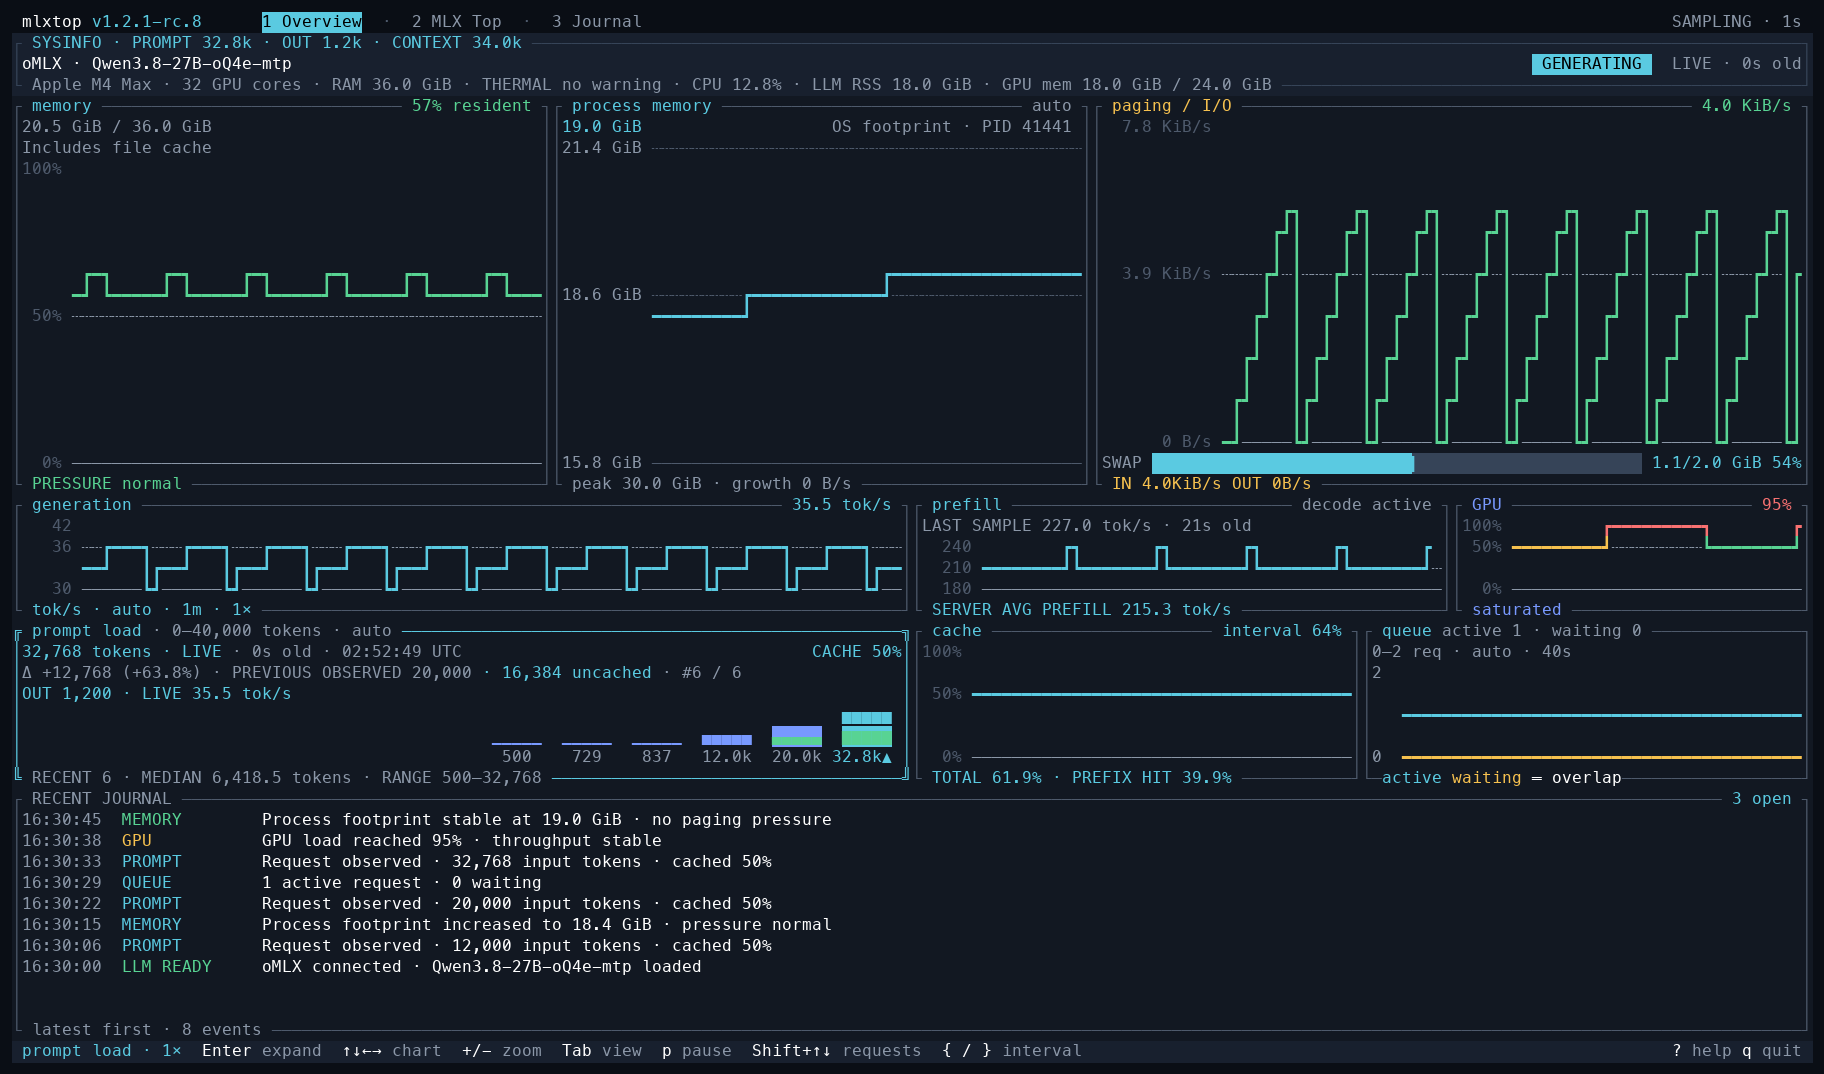
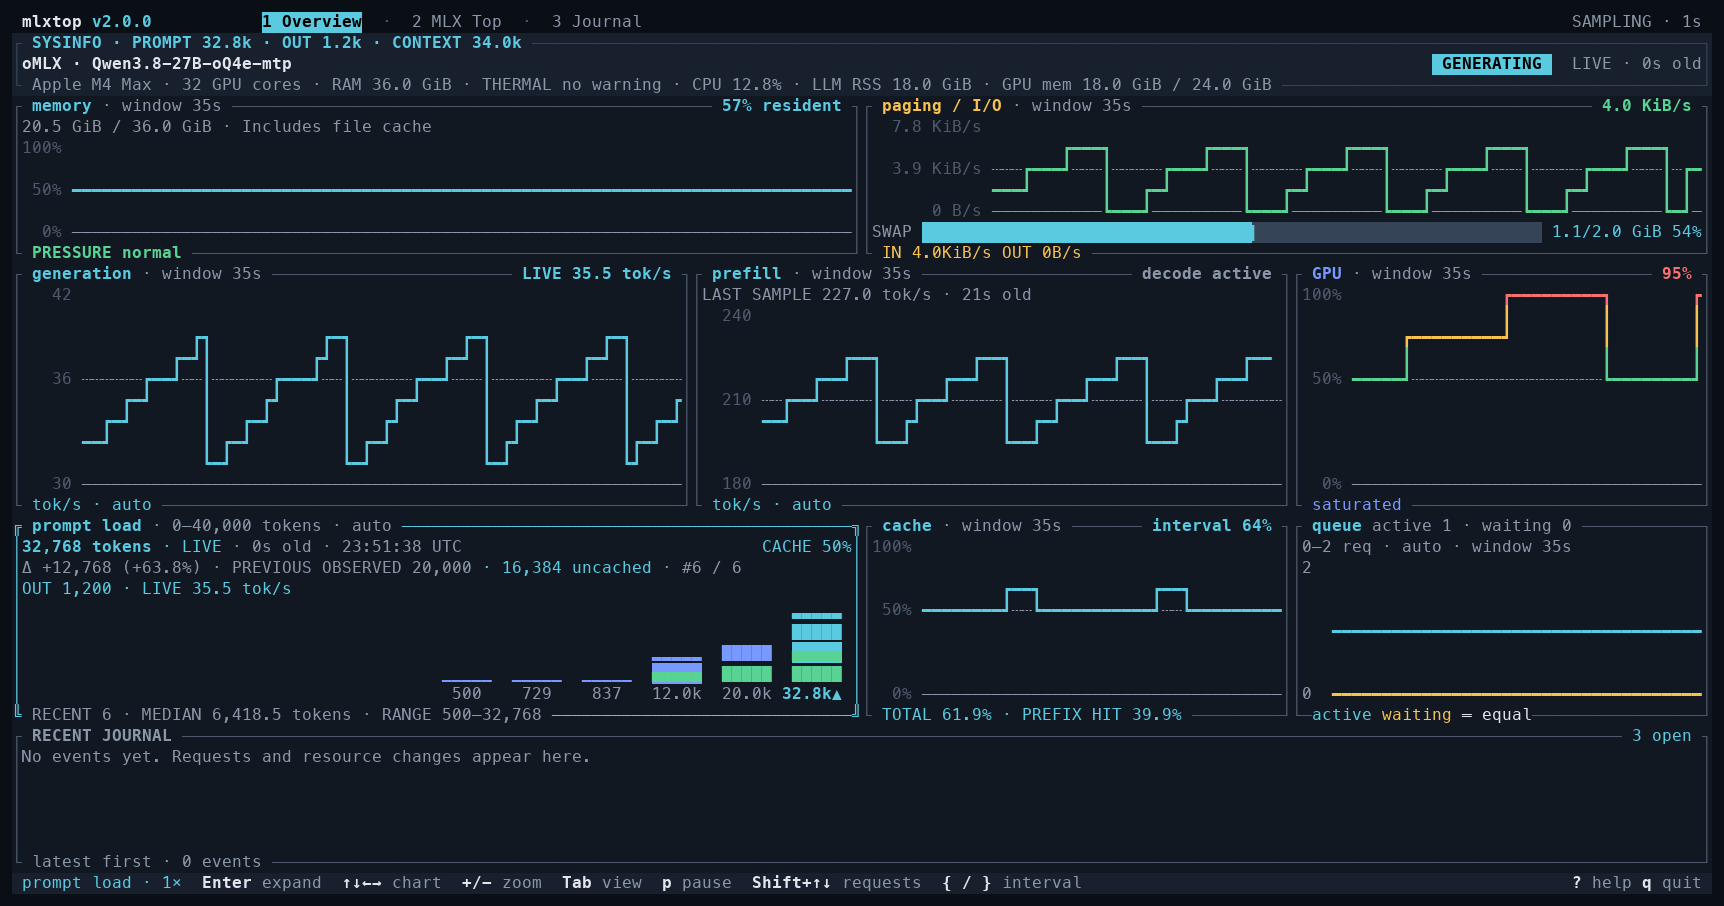
Prepare stable 2.0.0 release and refresh README

diff --git a/README.md b/README.md
@@ -4,19 +4,42 @@
 
 See which models are running, how much memory they use, and how busy your
 GPUs are. Linux NVIDIA systems show each card's utilization, VRAM and temperature
-in Overview, with `[` / `]` navigation for larger GPU sets. With oMLX, vLLM or SGLang, you can
-also follow generation speed and request activity as your model responds.
+in Overview, with `[` / `]` navigation for larger GPU sets. With oMLX, vLLM or
+SGLang, you can also follow generation speed and request activity as your model
+responds.
 
 ![mlxtop Overview prioritizing memory pressure and paging, with token rates and a readable recent Journal](docs/screenshots/overview.png)
 
 [Try it](#try-it) · [Runtime support](#runtime-support-and-limitations) ·
 [User guide](docs/USER_GUIDE.md) · [Changelog](CHANGELOG.md) · [Report a bug](https://github.com/maximpri/mlxtop/issues)
 
-The current source version is **2.0.0-rc.1**, the first candidate for the 2.0
-major release, developed on `release/2.0`.
-The stable installer follows the latest published release. Use the
-[private RC workflow](docs/USER_GUIDE.md#private-rc-testing-over-ssh) to test
-this checkout on a compatible remote host.
+**mlxtop 2.0.0** is the stable major release for Apple Silicon macOS and Linux
+(x86_64 and ARM64). [Download 2.0.0](https://github.com/maximpri/mlxtop/releases/tag/v2.0.0)
+or use the installer below.
+
+## What's new in 2.0
+
+- **Eleven runtimes:** oMLX, Ollama, LM Studio, llama.cpp, KoboldCpp, MLX-LM,
+  LocalAI, vLLM, SGLang, Jan and GPT4All. The [runtime table](#runtime-support-and-limitations)
+  distinguishes live metrics, model inventory and client-reported usage.
+- **Remote monitoring:** configured HTTP/HTTPS endpoints and bearer authentication,
+  with verified HTTPS certificates and explicit opt-in for remote credentials.
+- **Clearer charts:** synchronized rolling windows, linked time-series zoom,
+  readable queue crossings and explicit `window 34s` labels. Resident memory
+  stays cyan; pressure severity has its own label. Process-memory readings live
+  in Top and text reports.
+- **Accurate request history:** the counters-only recorder preserves native
+  output speeds, cached tokens and explicit first-token timing. Completed
+  results remain separate from live serving metrics.
+
+### Upgrading from 1.x
+
+Run the installer again and restart any open mlxtop session. Existing
+`~/.config/mlxtop/config.json`, oMLX settings and usage JSONL files remain
+compatible. The dashboard monitors one selected server per session; use
+`MLXTOP_PROVIDER` to choose it. New runtimes need their monitoring APIs enabled,
+and some require the [client usage recorder](docs/USER_GUIDE.md#client-reported-usage-file)
+for request statistics.
 
 ## Try it
 
@@ -50,7 +73,7 @@ Linux downloads are static binaries with no runtime dependencies. Then run:
 
 Add `~/.local/bin` to your `PATH` to run it as `mlxtop` from any terminal.
 The installer uses the latest release; to pin one, set `MLXTOP_VERSION`, for
-example `curl -fsSL … | MLXTOP_VERSION=1.1.2 sh`.
+example `curl -fsSL … | MLXTOP_VERSION=2.0.0 sh`.
 
 ## Configuration
 
@@ -168,8 +191,8 @@ Here’s the Journal during an oMLX session:
 
 ![mlxtop Journal showing timestamped model requests, queue changes, and GPU events](docs/screenshots/journal.jpg)
 
-Both screenshots show oMLX workloads. The numbers illustrate the display and
-aren’t benchmarks.
+The Overview screenshot uses an illustrative oMLX fixture; the Journal shows
+an oMLX session. These numbers illustrate the display and aren’t benchmarks.
 
 | Key | Action |
 | --- | --- |
@@ -248,7 +271,8 @@ observed request and shows its own compact size label, such as `12.0k` for
 12,000 tokens. The panel also shows the change from the previous observed
 request, freshness, and cached/uncached segments when reported. Selected prompts
 also show output counts and request-specific decode speed: `LIVE`, a completed
-request's `AVG`, or the retained `LAST` sample. Queue charts complement the system metrics; OS process-memory details live in Top. First-token latency appears only when
+request's `AVG`, or the retained `LAST` sample. Queue charts complement the system
+metrics; OS process-memory details live in Top. First-token latency appears only when
 explicitly measured client timings are supplied. See the
 [operator charts](docs/USER_GUIDE.md#operator-charts) for scales and data sources.
 Prompt counts also appear in the static report. Journal records each

diff --git a/CHANGELOG.md b/CHANGELOG.md
@@ -1,6 +1,6 @@
 # Changelog
 
-## 2.0.0-rc.1 — 2026-10-02
+## 2.0.0 — 2026-10-02
 
 - Expand native monitoring to eleven local LLM runtimes. Add Ollama loaded
   models, resident VRAM and context capacity, and LM Studio loaded instances
